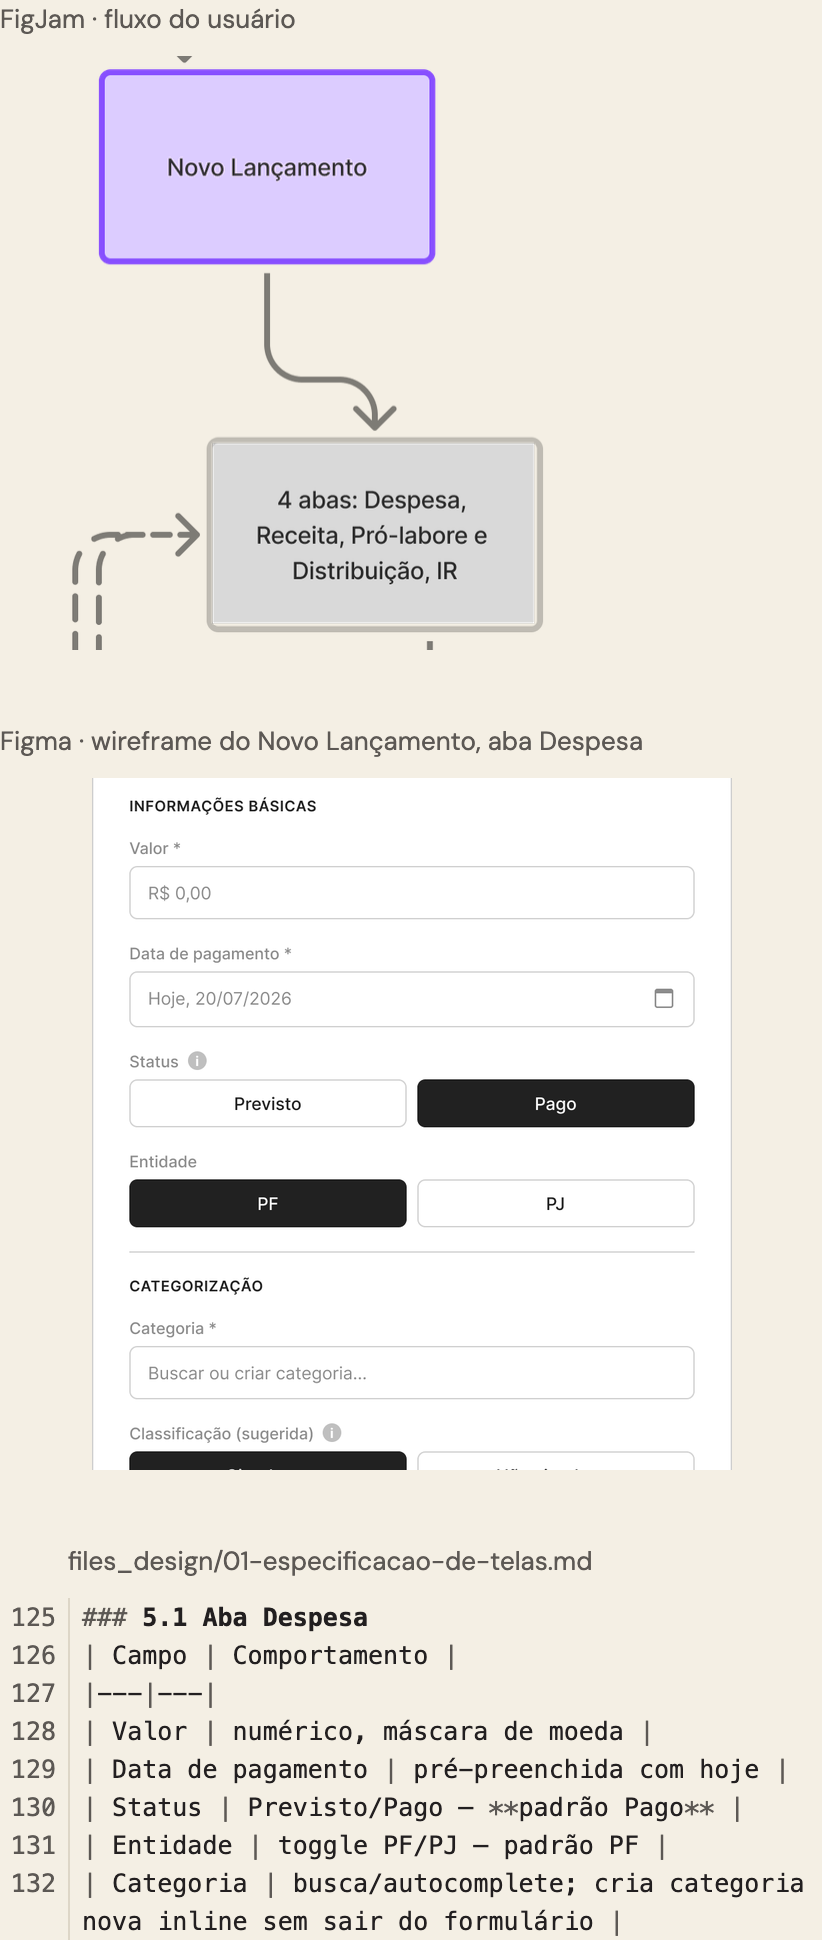
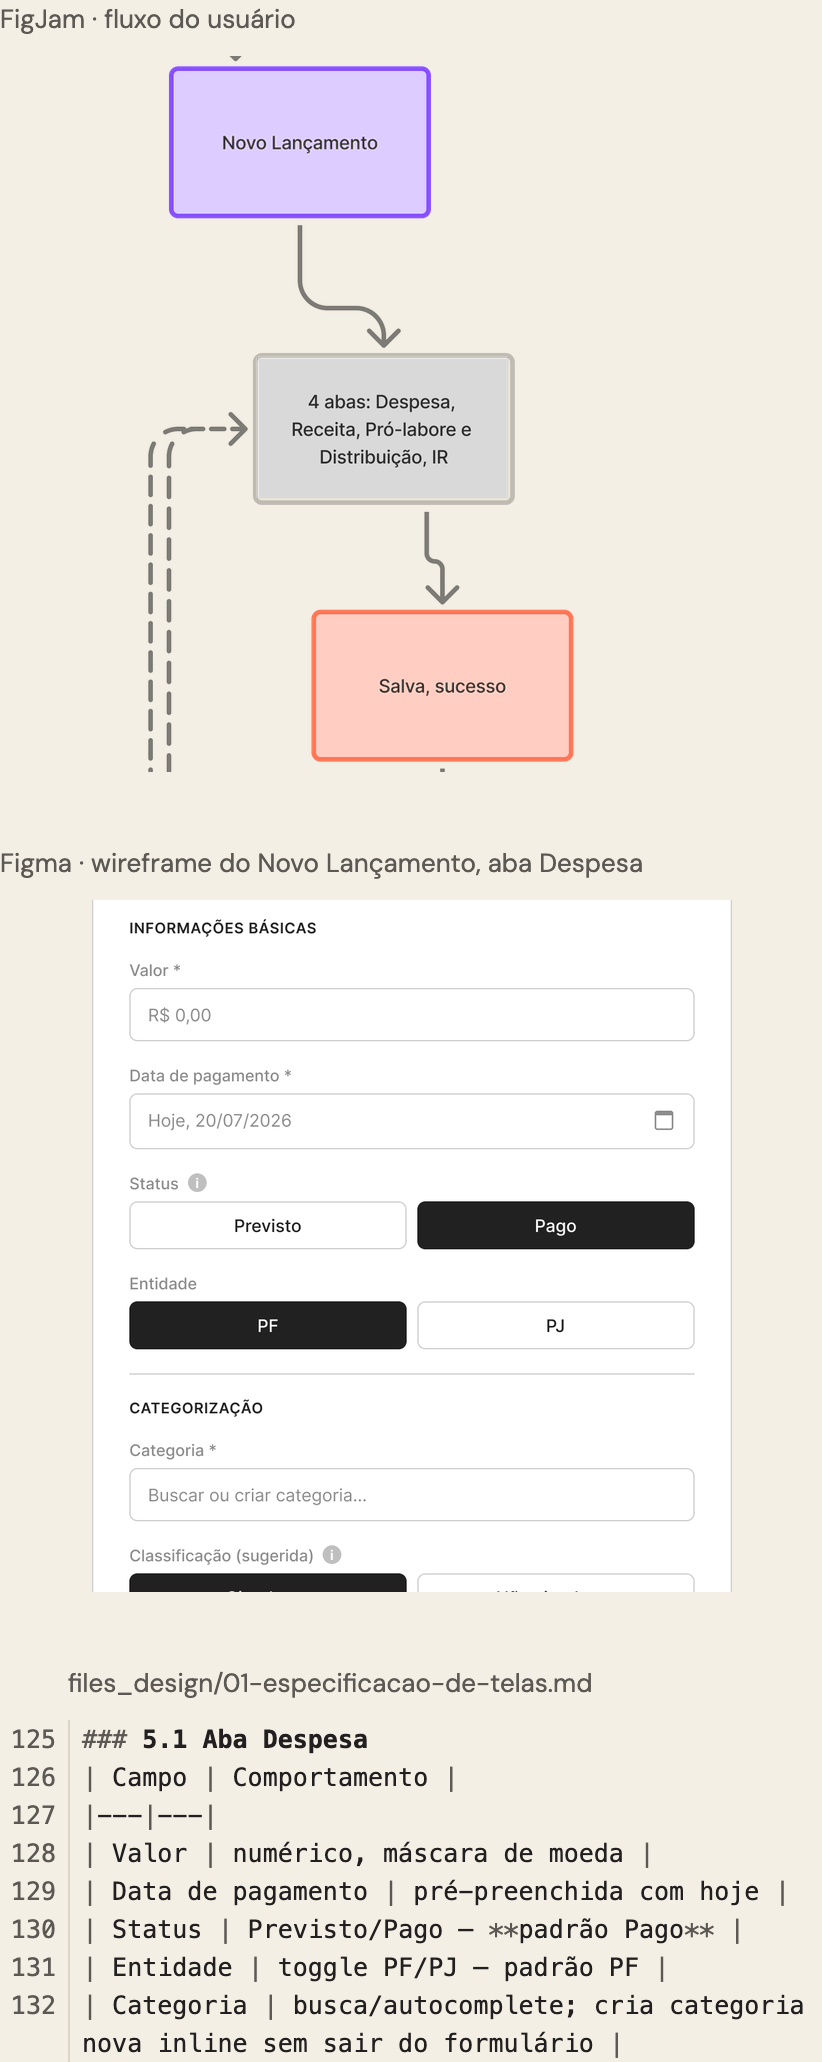
O fluxo do capítulo 3 do Finanças em 320px, com o Salva, sucesso (decisão 198)
A mídia passa a 822x2062 nos dois temas; o texto alternativo acompanha.
telas.json e trilha.json relidos: 6885 e 10748. As checagens seguem só com as 7
conhecidas.

diff --git a/case-study-financas-pf-pj.md b/case-study-financas-pf-pj.md
@@ -63,7 +63,7 @@ E a documentação virou artefato de handoff. Para cada tela, escrevi a especifi
 
 Parte da interface é gerada a partir do dado. Então documentei também as regras de renderização: o algoritmo por trás do desenho. Sem isso, quem fosse programar teria que inventar comportamento para cada caso extremo.
 
-![Três trechos do projeto, um acima do outro. Em cima, um recorte do board do FigJam com o fluxo do usuário: a caixa Novo Lançamento leva a 4 abas: Despesa, Receita, Pró-labore e Distribuição, IR; setas tracejadas chegam pela esquerda, cortadas na borda. No meio, centralizado e mais estreito, o wireframe do Novo Lançamento na aba Despesa: o campo Valor com R$ 0,00, a Data de pagamento já preenchida com hoje, 20/07/2026, o Status com Pago selecionado, a Entidade com PF selecionado e, em Categorização, o campo Buscar ou criar categoria; o corte cai no começo de Classificação. Embaixo, as linhas 125 a 132 da especificação de telas, como num editor: Valor numérico com máscara de moeda, Data de pagamento pré-preenchida com hoje, Status Previsto ou Pago com padrão Pago, Entidade com padrão PF, e Categoria com busca e criação de categoria nova sem sair do formulário.](publico/midias/financas-3-desenho.png)
+![Três trechos do projeto, um acima do outro. Em cima, centralizado e mais estreito, um recorte do board do FigJam com o fluxo do usuário: a caixa Novo Lançamento leva a 4 abas: Despesa, Receita, Pró-labore e Distribuição, IR, que leva a Salva, sucesso; setas tracejadas chegam pela esquerda, cortadas na borda. No meio, centralizado e mais estreito, o wireframe do Novo Lançamento na aba Despesa: o campo Valor com R$ 0,00, a Data de pagamento já preenchida com hoje, 20/07/2026, o Status com Pago selecionado, a Entidade com PF selecionado e, em Categorização, o campo Buscar ou criar categoria; o corte cai no começo de Classificação. Embaixo, as linhas 125 a 132 da especificação de telas, como num editor: Valor numérico com máscara de moeda, Data de pagamento pré-preenchida com hoje, Status Previsto ou Pago com padrão Pago, Entidade com padrão PF, e Categoria com busca e criação de categoria nova sem sair do formulário.](publico/midias/financas-3-desenho.png)
 Legenda: O mesmo Novo Lançamento em três lugares: no fluxo, por que a tela existe; no wireframe, o que a pessoa vê; na especificação, o que cada campo faz.
 
 ---

diff --git a/docs/log-de-decisoes.md b/docs/log-de-decisoes.md
@@ -6602,3 +6602,25 @@ tamanho real.
 
 **Consequência.** Figma reajustado: desktop com 6824, estreita com 10700, respiros de 96 e 64. Texto
 alternativo e `midias.json` atualizados.
+
+---
+
+## 198 · O fluxo do capítulo 3 segue o wireframe: 320 px, centralizado, e volta o "Salva, sucesso"
+
+**Quando** 2026-10-01 · **Fase** 4 · **Domínio** case
+
+**Gatilho.** *"faz esse trabalho também com o fluxo, diminui o tamanho assim cabe mais do fluxo"*, logo
+depois da 197.
+
+**Decisão.** O recorte do FigJam passa a 320 px de largura, centralizado, como o wireframe, e desce
+até mostrar *"Salva, sucesso"* inteiro: Novo Lançamento → 4 abas → Salva, sucesso. No escuro, o
+retângulo cinza do FigJam encolhe junto. A peça fica com 411×1031, arquivo em 822×2062.
+
+**Alternativa descartada.** *Manter a altura do fluxo* e mostrar só metade do "Salva, sucesso": ficaria
+uma caixa cortada no meio, sem servir de borda nem de conteúdo.
+
+**Custo aceito.** A peça ganha 61 px e o texto das caixas fica perto de 9 px na página, legível só
+porque cada caixa tem poucas palavras.
+
+**Consequência.** Figma reajustado: desktop com 6885, estreita com 10748, respiros de 96 e 64. Texto
+alternativo e `midias.json` atualizados.
